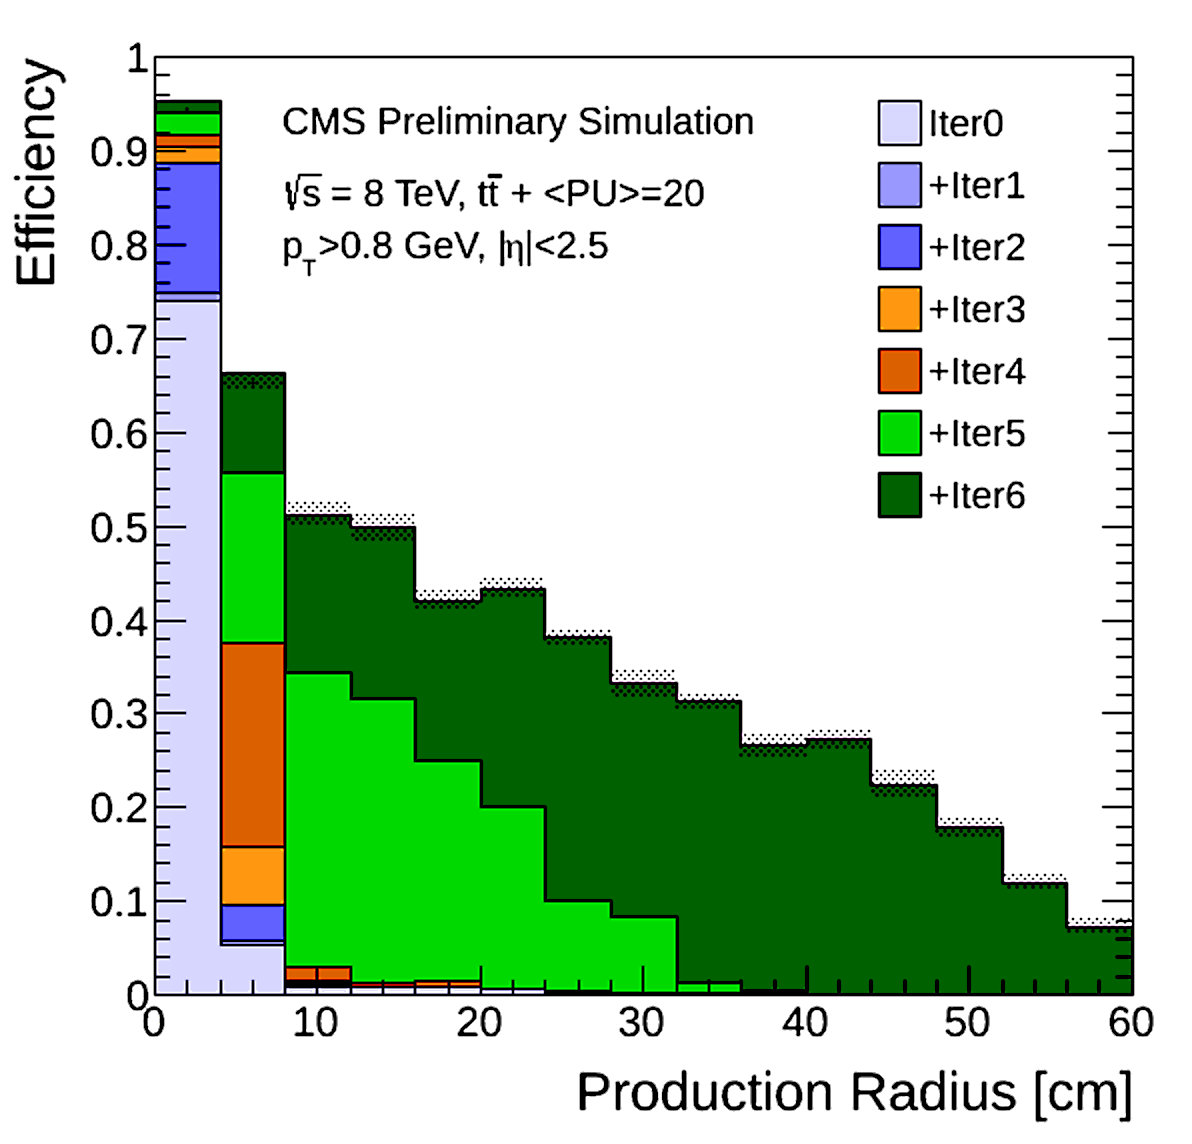
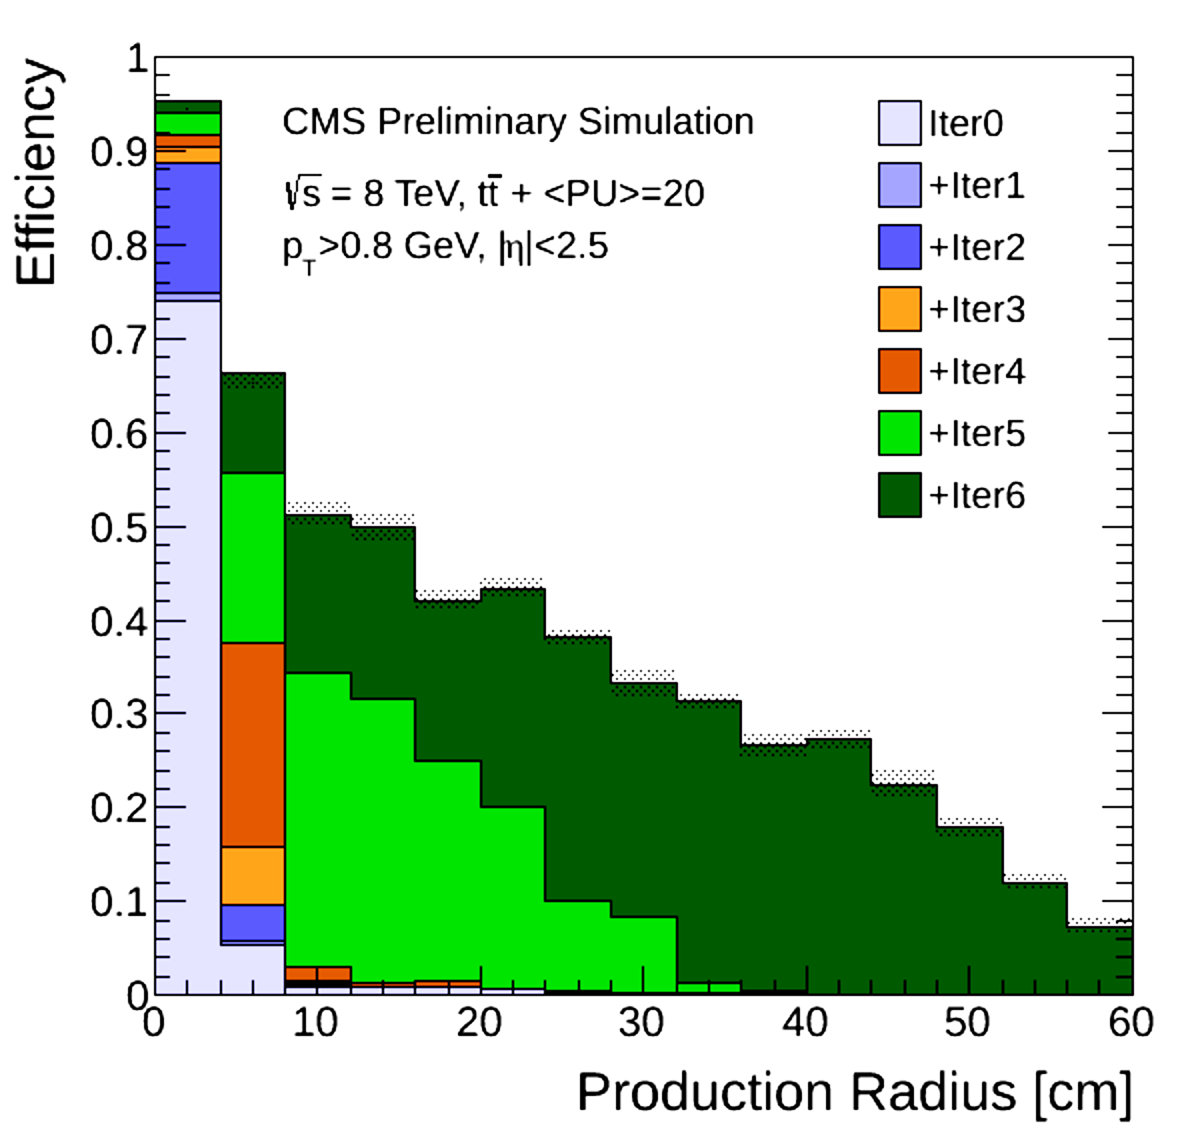
up

diff --git a/sections/reconstruction.tex b/sections/reconstruction.tex
@@ -6,32 +6,40 @@ The event reconstruction attempts to reconstruct and identify basic analysis obj
 
 
 %##############################################
-\section{Track and vertex reconstruction}
+\section{Track reconstruction}
 %##############################################
 
 The track reconstruction is split in two steps. First, in the local reconstruction, hits from charge distributions on the pixel and strip modules of the tracker are formed. Then, in the global reconstruction, trajectory candidates are seeded and build from compatible hits. A curved track is fitted to the found hits while accounting for the magnetic field to estimates parameters like the particle's momentum and charge. The individual steps are described briefly in the following. More details can be found in Ref.~\cite{Chatrchyan:2014fea}.
 
 Different algorithms are used to determine the local position of two-dimensional (one-dimensional) hits from the distributions of charge deposits on the pixel (strip) modules respectively. For pixel hits, a fast estimation of the hit position is performed first which is utilized in the trajectory seeding and building stage only. Here, the 2D charge distribution is projected onto each axis and the position is estimated from the deposited charges at the edge of a charge cluster while accounting for the Lorentz-drift in the modules. During the track-fit, the optimal pixel hit position is estimated by comparing the charge distribution against simulated templates for various incident angles~\cite{Swartz:2007zz}. In the barrel layers, the pixel hit resolution is measured as $9.4~\upmu\mathrm{m}$ in $\mathrm{r}\phi$ and ranges between $21\range45~\upmu\mathrm{m}$ along the z-axis depending on the incident angle~\cite{Chatrchyan:2014fea}. 
 
-For the strips, charge clusters are formed if the channel readout of neighboring strips is sufficiently above their individual noise level. The hit position is then calculated as a charge-weighted average over a cluster and corrected for the Lorentz drift and potential inefficiencies occurring at the module edges. The hit resolution depends largely on the cluster size and pitch of the modules. It ranges roughly between $10\range30~\upmu\mathrm{m}$ and $10\range50~\upmu\mathrm{m}$ for the \gls{tib} and \gls{tob} modules respectively~\cite{Chatrchyan:2014fea}.
+For the strips, charge clusters are formed if the channel readout of adjacent strips is sufficiently above their individual noise levels. The hit position is then calculated as a charge-weighted average over a cluster and corrected for the Lorentz drift and potential inefficiencies occurring at the module edges. The hit resolution depends largely on the cluster size and pitch of the modules. It ranges roughly between $10\range30~\upmu\mathrm{m}$ and $10\range50~\upmu\mathrm{m}$ for the \gls{tib} and \gls{tob} modules respectively~\cite{Chatrchyan:2014fea}.
+
+Track reconstruction is performed in multiple passes, called iterations, over the reconstructed hits to reduce the combinatorial complexity. Each iteration consists of the same algorithmic steps~(seeding, trajectory finding, track fitting, and selection) but is configured differently. The first iterations attempt to reconstruct only simple tracks which originate close to the interaction region and have a sufficiently large transverse momentum. The hits belonging to successfully reconstructed tracks are masked in subsequent iterations which reduces the combinatorics. Later iterations focus then on displaced or low momentum tracks which may not originate from the interaction region using the remaining hits. Figure~\ref{fig:reconstruction-trackingiter} shows the efficiency and acceptance for successfully reconstructing a track\footnote{Tracks are reconstructed ``successfully'' if at least 75\% of their hits can be associated to a simulated particle.} in simulation, broken down per iteration, as a function of its transverse momentum and displacement.
+
+\myfigure{\label{fig:reconstruction-trackingiter}Efficiency and acceptance of successfully reconstructing a track in simulation per tracking iteration as a function of (a)~the transverse momentum and (b)~the transverse displacement. The figures are taken from the public tracking result web page of CMS~\cite{trackingpublic}.}{
+\subfloat[]{\includegraphics[width=0.48\textwidth]{figures/reconstruction/tracking_vs_pt.jpg}}\hspace{0.03\textwidth}
+\subfloat[]{\includegraphics[width=0.48\textwidth]{figures/reconstruction/tracking_vs_vertpos.jpg}}
+}
+
+A trajectory seed is formed from a hit doublet or triplet where only certain combinations of tracker layers depending on the iteration are allowed for the hits. First iterations utilize mostly 3D hits on the pixel layers for seeding since their low channel occupancy results in less ambiguity and a higher efficiency for close-by tracks. Late iterations use hits on the strips instead where the spatial track density is low. Here 3D matched hits are utilized mostly which stem from double-sided strip modules but also mono layers are allowed. A seed candidate has to fulfill certain quality criteria depending on the iteration such as a minimal transverse momentum and compatibility with either the beam spot or a preliminary reconstructed vertex.
+
+Each seed contains enough information to commence a first estimate of the track parameters. An algorithm called \gls{ctf} extrapolates the trajectory to find additional hits on subsequent layers which are compatible with the track hypothesis. It is based on the \gls{kf} technique which describes how to update the track parameters and their uncertainties iteratively after adding a hit. If multiple hits are found to be compatible with the track, new trajectories are generated for each of them. In the case no compatible hit is found on a layer a ghost hit is created instead.
+
+The hits per trajectory are then passed to a \gls{kf}-based track fit to estimate the track parameters without utilizing the first estimate from the seed. In addition, the fit accounts for material effects and the inhomogeneous magnetic field.  Each track has to pass a quality selection to reduce the amount of fake tracks before it is considered in physics analyses. The criteria match the seed requirements and depend additionally on e.g. the total number of (3D) hits, the $\chi^2/\mathrm{\gls{ndof}}$ of the fit, the amount of ghost hits, the amount of shared hits with other tracks, amongst others.
+
+The tracking efficiency for isolated muons with $1<\pt<100~\GeV$ is found to be above $99\%$ over the full tracker acceptance since their trajectories is only disturbed by energy loss and Coulomb scattering. The trajectory of charged hadrons, like pions, is additionally affected by nuclear interactions especially at low momenta ($\pt<700~\MeV$) which yields efficiencies between $80\range95\%$~\cite{Chatrchyan:2014fea}. For electrons a special tracking is performed in addition to account for their energy loss via bremsstrahlung as described in Sec.~\ref{sec:reconstruction-electrons}. In parts of the 2016 collision data, the tracking efficiency decreased by about 10\% at high instantaneous luminosities due to a charge saturation effect on the readout chips leading to missing hits~\cite{CMS-DP-2016-043} which however was recovered by changing the drain speed.
 
 
-local pixel, strip hits, matched
+%##############################################
+\section{Vertex reconstruction}
+%##############################################
 
-seeding
-
-trajectory building, pattern recognition, ghost
-
-track fitting
-
-quality, fakes, masking, iterative tracking
 
 vertices, primary, secondary, 
 
 
-\myfigure{\label{fig:reconstruction-trackingiter}The figure is taken from the public tracking result web page of CMS~\cite{trackingpublic}.}{
-\includegraphics[width=0.45\textwidth]{figures/reconstruction/tracking_vs_vertpos.jpg}
-}
+
 
 %##############################################
 \section{Particle flow}
@@ -41,9 +49,14 @@ vertices, primary, secondary,
 \section{Muons}
 %##############################################
 
+id, trigger
+
 %##############################################
 \section{Electrons}
 %##############################################
+\label{sec:reconstruction-electrons}
+
+gsf, id
 
 %##############################################
 \section{Jets}
@@ -55,7 +68,7 @@ CHS, JEC, JER
 \section{b-tagging}
 %##############################################
 
-SF, rizzi recipe
+csv, SF, rizzi recipe
 
 %##############################################
 \section{Missing transverse energy}

diff --git a/sections/acronyms.tex b/sections/acronyms.tex
@@ -75,6 +75,12 @@
 \newacronym{hf}{HF}{Hadron forward calorimeter of \gls{cms}}
 \glsunset{hf}
 
+\newacronym[description={Combinatorial track finder}]{ctf}{CTF}{combinatorial track finder}
+\newacronym[description={Kalman filter}]{kf}{KF}{Kalman filter}
+\newacronym[description={Number of degrees of freedom}]{ndof}{ndof}{number of degrees of freedom}
+\glsunset{ndof}
+
+
 \newacronym[description={Drift tube -- part of the muon system of \gls{cms}}]{dt}{DT}{drift tube}
 \newacronym[description={Cathode strip chamber -- part of the muon system of \gls{cms}}]{csc}{CSC}{cathode strip chamber}
 \newacronym[description={Resistive plate chamber -- part of the muon system of \gls{cms}}]{rpc}{RPC}{resistive plate chamber}
